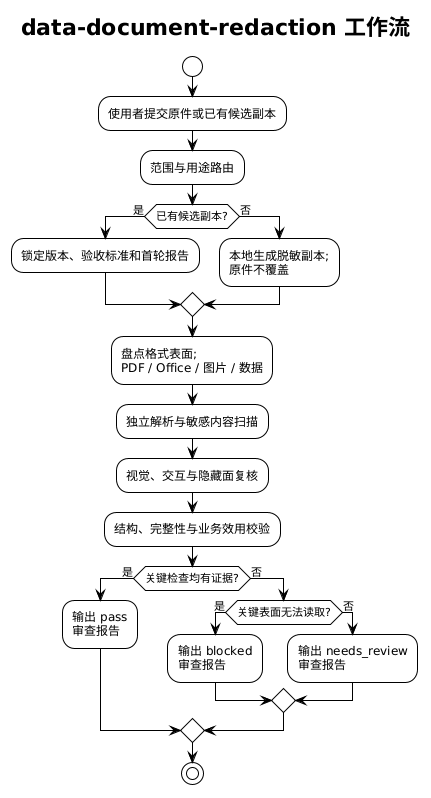
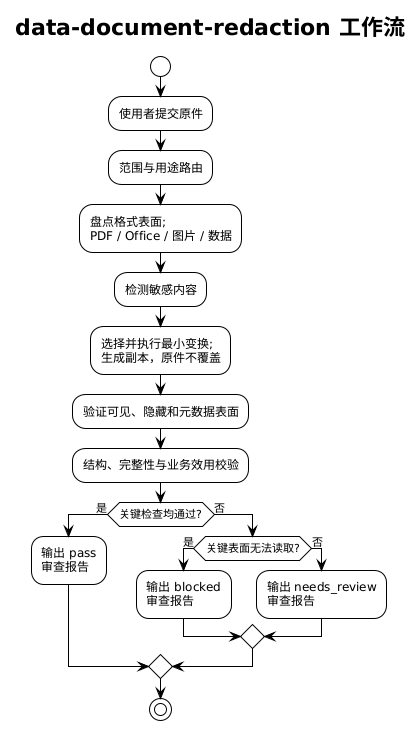
Simplify data-document-redaction to single-pass workflow

Changed region(s): [[0.031, 0.0, 0.9905, 0.9891], [0.0, 0.2997, 0.1548, 0.3597]]

diff --git a/data-document-redaction/SKILL.md b/data-document-redaction/SKILL.md
@@ -1,22 +1,17 @@
 ---
 name: data-document-redaction
-description: "处理数据集和文档中的个人信息、凭据与商业机密，并在脱敏完成后独立二次审查交付副本，输出不含原值的审查报告。适用于 CSV、JSON、SQL、表格、PDF、Word、PowerPoint、图片、扫描件和日志；不用于恢复或绕过脱敏、普通校对或法律认证。"
+description: "处理数据集和文档中的个人信息、凭据与商业机密：识别敏感内容，按用途选择删除、掩码、伪名化、泛化或合成数据，并在同一流程内验证可见、隐藏和元数据表面。适用于 CSV、JSON、SQL、表格、PDF、Word、PowerPoint、图片、扫描件和日志；不用于恢复或绕过脱敏或普通校对。"
 ---
 
 # 数据与文档脱敏
 
 为需要共享、测试、分析或发布的数据/文档生成一个“可用且不泄漏”的副本。先判断发布风险和所需可用性，再选择最小变换；不要把“看起来被遮住”当成“已经删除”。
 
-## 明确用途与模式
+## 明确用途
 
-本 skill 有两个相关但不能混为一谈的模式：
+本 skill 用于一次完成“范围确认 → 敏感内容检测 → 最小变换 → 格式与效用验证 → 交付报告”的流程。验证是同一流程中的必要步骤，不另行安排额外复审轮次。
 
-- **生成脱敏副本**：识别敏感内容，按目标用途做最小充分变换，并完成一次独立验证。
-- **文档完成后的二次审查**：对已经生成的候选副本做交付前、只读、独立复核；目标是发现首轮漏检、隐藏表面残留、不可验证的内容和效用损坏，判断是否可以在声明的范围内交付。二次审查不是重新脱敏、普通文字校对、恢复原文、绝对匿名化保证或法律/合规认证。
-
-当用户说“完成后复核”“交付前审查”“二次审查”“独立验证”或提供了已有的脱敏文件与首轮处理记录时，使用二次审查模式。审查应以候选输出、需求/验收标准和首轮报告为主要输入；如需与原件比较，只在获授权的本地环境中计算哈希、结构或统计差异，不把原文、原值或映射表载入上下文，也不在审查阶段覆盖候选文件。
-
-无论使用哪种模式，完成时都必须输出审查报告；二次审查模式必须额外输出独立复核结论，且不能把首轮工具的“成功”标记当作二次证据。
+完成后必须输出不含原值、映射表或秘密的交付报告；报告只对声明的用途、接收者和检查范围负责，不代表绝对匿名化或法律/合规认证。
 
 ## 先确认目标
 
@@ -35,7 +30,7 @@ description: "处理数据集和文档中的个人信息、凭据与商业机密
 - `hash`、加密、带密钥的确定性替换都可能可逆或可链接，不能直接宣称“匿名化”。映射存在时，保留最小权限、单独存储并设置生命周期。
 - 低置信度 OCR、未知二进制、加密文件、数字签名、嵌入对象或无法验证的隐藏层：停止并标记为 `needs_review`，不要假装已完成。
 
-## 生成脱敏副本工作流
+## 标准工作流
 
 1. **建立范围**：记录输入路径、文件类型、目标受众、用途、允许保留的效用和风险等级。不要为了“先看看”而把整份原文载入上下文。
 2. **盘点表面**：识别直接标识符、准标识符、敏感属性、秘密/凭据、自由文本，以及文件名、元数据、注释、修订、隐藏层、OCR、附件和链接。
@@ -43,20 +38,8 @@ description: "处理数据集和文档中的个人信息、凭据与商业机密
 4. **选择最小充分操作**：按 [transformation-matrix.md](references/transformation-matrix.md) 选择删除、抑制、掩码、伪名化/令牌化、泛化、聚合、扰动或合成数据。公开发布优先删除、泛化、聚合或合成数据。
 5. **保持必要结构**：只有在用途确实需要时才保留关联关系、行数、分布或版式。跨表同一主体必须使用同一替换；外键、唯一约束、公式和分页在副本中重新校验。
 6. **处理文档隐藏面**：按 [document-surfaces.md](references/document-surfaces.md) 检查可见内容、不可见文本、OCR、评论/修订、表单、附件、嵌入文件、链接、元数据和文件名。PDF 必须使用真正的 redaction/apply 流程，不得只画黑框。
-7. **独立复核**：使用与生成工具不同的读取路径（例如另一 PDF 阅读器/解析器、文本抽取、搜索、渲染截图、元数据检查）验证“敏感值不存在”及“业务效用仍满足”。对 PDF 至少做选择、搜索、复制、文本抽取、元数据、书签、注释、表单、附件和 OCR 检查。
-8. **交付报告**：按 [output-report.md](references/output-report.md) 输出变换清单、检测计数、结构校验、复核结果、残余风险、假设和未覆盖面；永远不输出原值、映射表或秘密。
-
-## 文档完成后的二次审查工作流
-
-二次审查应在首轮生成结束后重新启动一条证据链，详细清单见 [secondary-review.md](references/secondary-review.md)：
-
-1. **锁定声明范围**：读取交付目的、接收者、允许保留的效用、首轮报告和禁止实体/词表；缺少验收标准时标记假设，不擅自扩大“安全”结论。
-2. **确认候选副本**：记录文件类型、大小、SHA-256、生成时间和是否为新路径；确认原件未被覆盖。不能确认来源或版本时为 `needs_review`。
-3. **独立重读**：改用不同解析器、读取路径或进程重新提取文本/结构；重新扫描原值、别名、昵称、缩写、分词变体、编码值和秘密模式。只输出类型、位置类别和计数。
-4. **逐表面复核**：按 [document-surfaces.md](references/document-surfaces.md) 检查可见内容、隐藏文本、OCR、批注/修订、元数据、链接、附件、嵌入对象、文件名和历史；自动检测只是辅助，logo、图像、重复页眉、自由文本和扫描页必须有视觉或人工覆盖证据。
-5. **复核效用与完整性**：按声明的用途检查可读性、版式、页数、schema、行数、外键/唯一约束、公式、分布、偏斜和异常值；任何未声明的损坏都应记录为发现项。
-6. **做出范围化结论**：`pass` 仅表示声明范围内的检查均通过；有残留、漏检或未覆盖表面用 `needs_review`；加密、损坏、低置信度 OCR 或关键表面无法读取用 `blocked`。给每个发现分配严重级别、位置类别、证据和修复建议，不写原值。
-7. **输出审查报告**：必须按 [output-report.md](references/output-report.md) 生成 Markdown 报告；如调用方需要机器读取，再附同内容的 JSON。报告应能让另一位审阅者复现检查范围与结论，而不会成为敏感数据副本。
+7. **最终验证**：在同一次流程内使用合适的独立读取路径（例如另一 PDF 阅读器/解析器、文本抽取、搜索、渲染截图、元数据检查）验证“敏感值不存在”及“业务效用仍满足”。对 PDF 至少做选择、搜索、复制、文本抽取、元数据、书签、注释、表单、附件和 OCR 检查。
+8. **交付报告**：按 [output-report.md](references/output-report.md) 输出变换清单、检测计数、结构校验、验证结果、残余风险、假设和未覆盖面；永远不输出原值、映射表或秘密。
 
 ## 按场景路由
 
@@ -67,7 +50,6 @@ description: "处理数据集和文档中的个人信息、凭据与商业机密
 | 开发/测试/性能复现 | 优先按 schema 生成合成数据；否则对生产副本做关系感知掩码 | 外键/唯一键、分布与异常值、日志/备份/快照不得带原值 |
 | 需要跨文件追踪的排障 | 随机令牌化或受控伪名化 | 映射表隔离、密钥生命周期、同一实体的一致性 |
 | 视觉文档对外发送 | 真正的内容删除 + 隐藏信息清理；高敏感时栅格化/扁平化 | 另一解析器打开、全文搜索、OCR 层、附件和修订 |
-| 已完成的候选副本、交付前复核 | 使用二次审查模式，只读重建证据链 | 独立解析/扫描、视觉覆盖、完整性与效用、审查报告 |
 
 ## 工具与验证
 
@@ -84,7 +66,6 @@ description: "处理数据集和文档中的个人信息、凭据与商业机密
 
 - 变换选择与字段规则：[transformation-matrix.md](references/transformation-matrix.md)
 - 各格式隐藏面与复核清单：[document-surfaces.md](references/document-surfaces.md)
-- 文档完成后的二次审查流程：[secondary-review.md](references/secondary-review.md)
 - Reddit 社区经验摘要与来源：[reddit-practices.md](references/reddit-practices.md)
 - 术语、风险与工具的一手资料：[authoritative-sources.md](references/authoritative-sources.md)
 - 可审计的报告字段：[output-report.md](references/output-report.md)

diff --git a/data-document-redaction/references/reddit-practices.md b/data-document-redaction/references/reddit-practices.md
@@ -1,26 +1,26 @@
 # Reddit 实战经验摘要
 
-截至 2026-08-31，检索了 `r/pdf`、`r/LawFirm`、`r/SQLServer`、`r/devops` 和 `r/IMadeThis` 中关于 PDF 脱敏、文档复核、生产数据掩码和合成数据的讨论。以下内容只作为失败模式和工作流体验样本，不是法律意见、安全认证或工具背书；帖子可能被编辑、删除、限流，也可能包含作者自荐。与组织政策、合同、法律、NIST/ICO 或厂商文档冲突时，以后者为准。
+截至 2026-08-31，检索了 `r/pdf`、`r/LawFirm`、`r/SQLServer`、`r/devops` 和 `r/IMadeThis` 中关于 PDF 脱敏、文档检查、生产数据掩码和合成数据的讨论。以下内容只作为失败模式和工作流体验样本，不是法律意见、安全认证或工具背书；帖子可能被编辑、删除、限流，也可能包含作者自荐。与组织政策、合同、法律、NIST/ICO 或厂商文档冲突时，以后者为准。
 
-## 可落实到二次审查的经验
+## 可落实到一次处理流程的经验
 
 | Reddit 反复出现的经验 | 在 skill 中的落实 |
 |---|---|
-| 自动检测能节省时间，但不能替代整份文档的人工/视觉复核；一个讨论中的实际做法是自动处理后再进行手工检查 | 二次审查必须记录人工/视觉覆盖；高敏感或扫描件按页检查，自动结果只作辅助 |
-| “检测到了”与“真正删除了”是两个问题；黑框、涂抹或 annotation 可能只是在原文上盖层 | 分离检测与移除验证；要求 apply redaction、sanitize、全文搜索、选择/复制、文本抽取和重新打开检查 |
-| 精确查找会漏掉昵称、缩写、标点/分词差异和 OCR 产生的不同字符 | 首轮词表之外，二次审查重新检查别名、变体、字符分隔、编码值和领域词典；报告只记类型/位置/计数 |
+| 自动检测能节省时间，但不能替代整份文档的人工/视觉检查；一个讨论中的实际做法是自动处理后立即进行手工检查 | 一次流程内保留必要的人工/视觉覆盖；高敏感或扫描件按页检查，自动结果只作辅助 |
+| “检测到了”与“真正删除了”是两个问题；黑框、涂抹或 annotation 可能只是在原文上盖层 | 在同一次流程中分别验证检测结果和移除结果；要求 apply redaction、sanitize、全文搜索、选择/复制、文本抽取和重新打开检查 |
+| 精确查找会漏掉昵称、缩写、标点/分词差异和 OCR 产生的不同字符 | 检测规则同时覆盖别名、变体、字符分隔、编码值和领域词典；报告只记类型/位置/计数 |
 | logo、公司名、重复页眉、部分文本和扫描图像很难由 AI/OCR 稳定识别 | 将图像、重复区域、自由文本和 OCR 层列为专项表面；要求渲染或人工证据，低置信度时 `needs_review` |
-| PDF 的编辑历史、元数据、隐藏 OCR 层、书签和嵌入对象可能在页面看不见 | 二次审查使用独立解析/原始对象检查，覆盖元数据、历史、附件、链接、批注、表单和 OCR |
+| PDF 的编辑历史、元数据、隐藏 OCR 层、书签和嵌入对象可能在页面看不见 | 一次流程同时覆盖独立解析/原始对象检查、元数据、历史、附件、链接、批注、表单和 OCR |
 | 生产库复制到开发/测试环境很普遍，但真正的 PII 去除比截图级“看起来像假数据”复杂；社区常建议合成数据，或在必须保留真实形态时保留关系并验证分布 | 先按用途选择合成数据；掩码副本必须检查主外键、唯一性、偏斜、异常值和跨表关联，并记录接收环境与责任边界 |
 | 在线工具会先接触原件；隐私敏感场景更偏好本地、离线或自托管流程 | 本地优先；第三方处理只有在明确授权、确认数据边界并写入报告后才允许 |
 
-## 这批经验如何影响复审设计
+## 这批经验如何影响一次处理设计
 
-1. 把“首轮自动化”与“交付前二次审查”拆成两个阶段，不能用同一工具的成功标记互相证明。
-2. 把复审证据分成结构/文本和视觉/独立读取两条路径；缺一条就不能写成 `pass`。
+1. 把检测、变换和验证放在同一次流程中，不能只看自动工具的成功标记。
+2. 把验证证据分成结构/文本和视觉/独立读取两条路径；缺一条就不能写成 `pass`。
 3. 把“词表命中为零”降级为一个后置条件，而不是整体安全结论；还要检查图像、OCR、历史、附件、元数据和文件名。
 4. 把“用途”写入报告：截图演示、测试数据、内部分析和公开发布的风险与可接受效用不同，不能复用同一个结论。
-5. 对 Reddit 中的产品推荐和自报准确率不作事实依据；工具是否可靠必须用本地代表性样本和独立复核验证。
+5. 对 Reddit 中的产品推荐和自报准确率不作事实依据；工具是否可靠必须用本地代表性样本和流程内验证确认。
 
 ## 来源
 
@@ -31,4 +31,4 @@
 - [r/SQLServer：Recommendation for tool or script for sanitizing data](https://www.reddit.com/r/SQLServer/comments/10abbuy/recommendation_for_tool_or_script_for_sanitizing/)：截图级替换与真正 PII 脱敏的差别，以及可读假数据与关系保持的取舍。
 - [r/devops：Data Masking in Staging](https://www.reddit.com/r/devops/comments/16fqpsm/data_masking_in_staging/)：合成数据、生产副本掩码、非生产环境访问和“生产 PII 不应离开生产账户”的社区讨论。
 
-这些来源用于补充 [document-surfaces.md](document-surfaces.md) 和 [secondary-review.md](secondary-review.md) 的复审提醒；术语、风险定义和工具行为仍以 [authoritative-sources.md](authoritative-sources.md) 为准。
+这些来源用于补充 [document-surfaces.md](document-surfaces.md) 的检查提醒；术语、风险定义和工具行为仍以 [authoritative-sources.md](authoritative-sources.md) 为准。

diff --git a/data-document-redaction/references/output-report.md b/data-document-redaction/references/output-report.md
@@ -1,6 +1,6 @@
 # 交付报告字段
 
-报告应让另一位审阅者知道做了什么、检查了什么、还有什么不确定性；不应成为敏感数据的第二份副本。skill 每次完成都必须输出报告；用户要求“文档完成后的二次审查”时，报告必须明确标记 `mode: secondary_review`，列出独立证据、发现项和交付结论。
+报告应让另一位审阅者知道做了什么、检查了什么、还有什么不确定性；不应成为敏感数据的第二份副本。skill 每次完成都必须输出一次交付报告，列出处理动作、验证证据、发现项和交付结论。
 
 ## 推荐结构
 
@@ -17,12 +17,12 @@
   "detections": {"EMAIL": 0, "PHONE": 0, "SECRET": 0},
   "integrity_checks": {"schema": "pass", "row_count": "pass", "foreign_keys": "pass", "distribution": "not_run"},
   "document_checks": {"text_search": "pass", "copy_test": "pass", "metadata": "pass", "ocr": "pass", "attachments": "pass"},
-  "review": {
-    "mode": "generation_verification|secondary_review",
-    "independence": {"different_parser": true, "independent_surface_scan": true, "visual_check": "pass|partial|not_run"},
-    "checks": {"version_and_hash": "pass", "second_detector": "pass", "hidden_surfaces": "pass", "utility": "pass"},
+  "verification": {
+    "mode": "single_pass",
+    "paths": {"parser_or_reader": "...", "surface_scan": "...", "visual_check": "pass|partial|not_run"},
+    "checks": {"version_and_hash": "pass", "sensitive_content": "pass", "hidden_surfaces": "pass", "utility": "pass"},
     "findings": [
-      {"id": "R-001", "severity": "blocker|high|medium|low", "surface": "ocr|metadata|comment|attachment|column|body", "location": "page/row/section category only", "summary": "不含原值的事实描述", "action": "..."}
+      {"id": "F-001", "severity": "blocker|high|medium|low", "surface": "ocr|metadata|comment|attachment|column|body", "location": "page/row/section category only", "summary": "不含原值的事实描述", "action": "..."}
     ],
     "decision": "pass|needs_review|blocked"
   },
@@ -35,25 +35,24 @@
 }
 ```
 
-## Markdown 二次审查报告模板
+## Markdown 交付报告模板
 
-需要给人阅读时，至少输出以下结构；即使没有发现，也要写 `No findings` 或“未发现符合条件的问题”，不要省略复核结果。
+需要给人阅读时，至少输出以下结构；即使没有发现，也要写 `No findings` 或“未发现符合条件的问题”，不要省略验证结果。
 
 ```markdown
-# 文档完成后二次审查报告
+# 数据与文档脱敏交付报告
 
 - status: `pass|needs_review|blocked`
-- mode: `secondary_review`
+- mode: `single_pass`
 - purpose / audience: ...
-- reviewed artifact: 文件类型、短路径或编号、SHA-256、验证时间
-- first-pass evidence: 首轮报告/变换清单是否存在，是否完整
-- independent evidence: 解析器/扫描器/渲染路径及版本；与首轮是否不同
+- inputs / outputs: 文件类型、短路径或编号、SHA-256、验证时间
+- tools and evidence: 解析器/扫描器/渲染路径及版本、覆盖范围
 
 ## 检查结果
 
 | 检查项 | 覆盖范围 | 结果 | 证据摘要 |
 |---|---|---|---|
-| 二次文本/结构扫描 | ... | pass / needs_review / blocked | 类型、位置类别、计数 |
+| 敏感内容与结构扫描 | ... | pass / needs_review / blocked | 类型、位置类别、计数 |
 | 隐藏表面 | ... | ... | 元数据、批注、修订、附件、OCR 等 |
 | 视觉/交互检查 | ... | ... | 搜索、选择/复制、渲染、抽样或逐页覆盖 |
 | 效用/完整性 | ... | ... | schema、页数、外键、分布、版式等 |
@@ -68,7 +67,7 @@
 
 ## 结论
 
-在声明的范围内，候选副本 `可以交付 / 需要修复后复审 / 当前无法判定`。这不是绝对匿名化或法律/合规认证。
+在声明的范围内，输出副本 `可以交付 / 需要修复 / 当前无法判定`。这不是绝对匿名化或法律/合规认证。
 ```
 
 ## 报告规则
@@ -76,7 +75,7 @@
 - `detections` 只写实体类型和数量；不要写原值、完整上下文、映射表、密钥或可用凭据。
 - 输出路径、文件名和校验值本身也可能含敏感信息；按接收者需要缩短或替换。
 - `pass` 只表示声明的范围和检查项通过，不表示“绝对不可重识别”或自动合规。
-- 二次审查报告必须区分“首轮处理证据”和“独立复核证据”；只重复首轮工具的输出不能填充独立证据栏。
+- 报告必须区分“处理动作”和“同一流程内的验证证据”；不能只写工具成功标记。
 - 发现项按严重级别排序；`blocker` 或关键敏感内容残留时，不得给出 `pass`。
 - 对未支持的格式、低置信度 OCR、未打开的附件、加密内容和未验证的动态链接，明确写入 `unsupported_or_unchecked` 并使用 `needs_review`/`blocked`。
 - 若输出需要可逆，报告“存在映射”和保留期限即可，不写映射位置、密钥或恢复步骤。

diff --git a/data-document-redaction/references/document-surfaces.md b/data-document-redaction/references/document-surfaces.md
@@ -1,4 +1,4 @@
-# 文档表面与复核清单
+# 文档表面与验证清单
 
 视觉上看不见的内容常常比正文更容易漏掉。根据实际格式选择检查项；无法读取的部分必须标记 `needs_review`。
 
@@ -11,18 +11,18 @@
 | 图片/扫描件 | EXIF/XMP/IPTC、GPS、缩略图、alpha 通道、隐藏像素、版本历史、OCR 结果、二维码/条形码、文件名 |
 | 文本/日志/JSON/SQL | 注释、调试输出、请求头、URL 查询参数、Cookie、环境变量、堆栈、转义/编码后的值、base64/hex、压缩包内文件、备份和临时文件 |
 
-## 二次审查最低证据
+## 一次流程最低证据
 
-二次审查不能只复跑首轮工具。每个候选交付物至少要有一条结构/文本证据和一条视觉或独立读取证据；报告中写明工具、版本、覆盖范围和未检查面。
+一次处理流程至少要组合一条结构/文本证据和一条视觉或独立读取证据；报告中写明工具、版本、覆盖范围和未检查面。
 
 | 类型 | 结构/文本证据 | 视觉或独立读取证据 |
 |---|---|---|
-| PDF | 用不同解析器全文搜索、选择/复制、抽取文本；检查元数据、书签、批注、表单、附件、链接和原始对象标记 | 重新打开并渲染页面；高敏感或扫描件逐页确认遮盖、图像、重复页眉和 OCR 结果 |
+| PDF | 用合适的解析器全文搜索、选择/复制、抽取文本；检查元数据、书签、批注、表单、附件、链接和原始对象标记 | 重新打开并渲染页面；高敏感或扫描件逐页确认遮盖、图像、重复页眉和 OCR 结果 |
 | DOCX/XLSX/PPTX | 应用级重开 + ZIP/XML/关系文件扫描；检查修订、批注、隐藏区域、备注、属性、外链和嵌入对象 | 重新渲染或用不同办公套件打开，确认版式、分页、隐藏面和图像中的文字 |
 | 图片/扫描件 | 清理后重新 OCR/条码识别；检查 EXIF/XMP/IPTC、缩略图、alpha 和文件名 | 像素级查看每个脱敏区域；确认遮盖不是半透明、可逆模糊或仍可辨识的图层 |
-| 数据/日志/文本 | 第二解析器和规则集扫描精确值、昵称/缩写/编码变体、秘密模式及压缩副本；比较 schema/计数/关系 | 抽样查看自由文本、导出预览和实际消费路径；记录未覆盖字段与抽样范围 |
+| 数据/日志/文本 | 规则集扫描精确值、昵称/缩写/编码变体、秘密模式及压缩副本；比较 schema/计数/关系 | 抽样查看自由文本、导出预览和实际消费路径；记录未覆盖字段与抽样范围 |
 
-自动检测结果只证明检测器看到了什么，不证明图像、logo、手写内容、重复页眉或 OCR 误读已经安全处理。任一证据路径缺失，都不要把结果写成 `pass`。
+自动检测结果只证明检测器看到了什么，不证明图像、logo、手写内容、重复页眉或 OCR 误读已经安全处理。任一必要证据路径缺失，都不要把结果写成 `pass`。
 
 ## PDF 安全发布流程
 

diff --git a/README.md b/README.md
@@ -1,6 +1,6 @@
 # data-document-redaction
 
-用于生成可用且不泄漏的数据/文档副本，并在文档完成后进行交付前的独立二次审查。支持 CSV、JSON、SQL、表格、PDF、Word、PowerPoint、图片、扫描件和日志。
+用于一次完成可用且不泄漏的数据/文档副本生成、验证和交付报告输出。支持 CSV、JSON、SQL、表格、PDF、Word、PowerPoint、图片、扫描件和日志。
 
 ## 整体架构
 
@@ -11,21 +11,20 @@ PlantUML 源文件：[data-document-redaction-architecture.puml](docs/diagrams/d
 ## 使用方式
 
 ```text
-Use $data-document-redaction to independently review this completed document and output a privacy-safe audit report.
+Use $data-document-redaction to sanitize this document and output a privacy-safe delivery report.
 ```
 
-二次审查模式是只读质量门：重新建立独立证据链，检查可见内容、OCR、元数据、批注/修订、附件、链接、文件名、结构和业务效用，并输出 `pass`、`needs_review` 或 `blocked` 结论。它不替代法律/合规认证，也不用于恢复或绕过脱敏。
+一次处理流程包含范围确认、敏感内容检测、最小变换、格式与效用验证，以及不含原值的交付报告。它不替代法律/合规认证，也不用于恢复或绕过脱敏。
 
 ## 目录
 
 - [主 skill](data-document-redaction/SKILL.md)
-- [二次审查流程](data-document-redaction/references/secondary-review.md)
 - [文档表面与最低证据](data-document-redaction/references/document-surfaces.md)
 - [变换选择矩阵](data-document-redaction/references/transformation-matrix.md)
 - [报告字段与模板](data-document-redaction/references/output-report.md)
 - [Reddit 实战经验](data-document-redaction/references/reddit-practices.md)
 - [权威资料](data-document-redaction/references/authoritative-sources.md)
-- [本次 skill 更新审查报告](docs/secondary-review-report.md)
+- [本次 skill 更新报告](docs/skill-update-report.md)
 
 ## 本地验证
 

diff --git a/docs/skill-update-report.md b/docs/skill-update-report.md
@@ -1,0 +1,32 @@
+# Skill 一次处理更新报告
+
+- status: `pass`
+- mode: `single_pass`
+- purpose: 将 `data-document-redaction` 调整为一次完成检测、变换、验证和交付报告的 skill
+- reviewed_at: `2026-08-31 UTC`
+- scope_note: 本报告审查的是 skill 包更新，不是具体 PDF、Office 文件、图片或数据集
+
+## 检查结果
+
+| 检查项 | 结果 | 证据摘要 |
+|---|---|---|
+| 用途与入口描述 | pass | 已移除单独的二次审查模式、触发词和 UI 文案 |
+| 一次处理流程 | pass | 保留范围、检测、变换、格式/效用验证和报告输出 |
+| 参考资料拓扑 | pass | 删除独立二次审查参考文件，README 和主 skill 链接均已同步 |
+| Reddit 经验 | pass | 保留检测与删除分离、变体漏检、隐藏表面、人工检查和合成数据经验，并改写为一次流程要求 |
+| 架构图 | pass | PlantUML 已更新为单条处理流程并重新渲染检查 |
+| 结构与敏感信息基线 | pass | skill validator、YAML、Python 语法及支持格式扫描通过 |
+| 真实文档端到端验证 | not_run | 本次未提供具体候选文档 |
+
+## Findings
+
+未发现属于本次修改、且需要修复的明确问题（`No findings.`）。
+
+## 残余风险与未覆盖面
+
+- 一次流程仍必须完成格式相关验证；“一次”不等于跳过 OCR、隐藏面、元数据、附件或效用检查。
+- 真实文档使用时应按声明的用途执行对应验证，并在同一份交付报告中记录未覆盖面。
+
+## 结论
+
+skill 已调整为一次处理模式，不再要求单独二次审查；每次完成仍输出一份不含敏感原值的交付报告。
